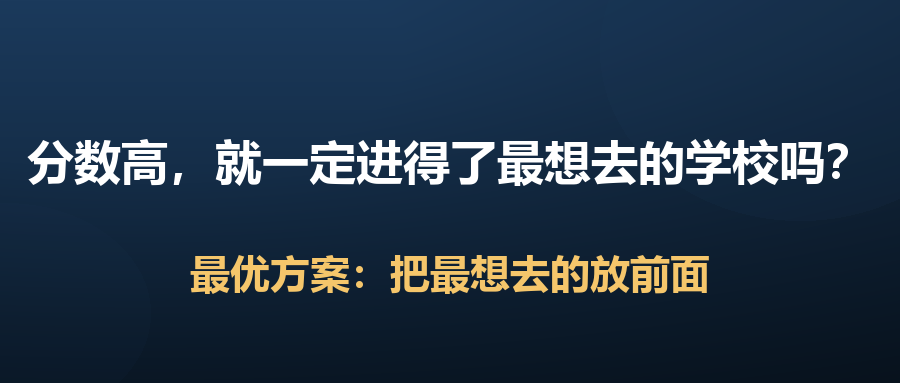
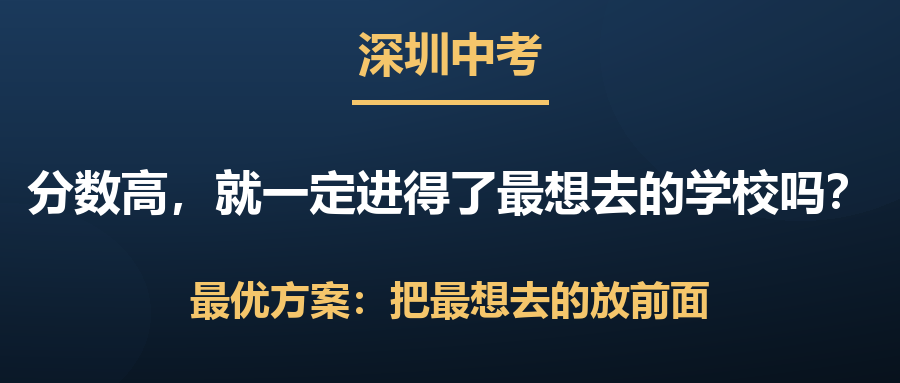
docs: P1-1 主线封面「一句话」三尺寸 + 顶部深圳中考地域标识
主线封面定稿 C（一句话触发点）：考得好≠填得好？/搞懂规则，本身就是优势/30分钟建立全景地图
- 顶部加「深圳中考」金字+同宽下划线（字号≈主问句，手机可读；多城可换东莞/广州复用）
- 尺寸：公众号900×383 / 头条1200×900 / 小红书1080×1440(视频+图文)
- 生成脚本 _build_v3_mainline_cover.py（P1-1 根）

子任务 04批次/05时间线/06排队 公众号封面补「深圳中考」顶部标识（同规格）
- 覆盖 630/ACD（已含深圳字样）之外三张无地域封面

清理被取代旧稿：公众号主线旧首图×3(精简/极简/化繁极简)、今日头条封面1

diff --git a/docs/03-内容创作-深圳中考志愿填报/P1-政策解码器/P1-1-游戏规则全景/_build_v3_mainline_cover.py b/docs/03-内容创作-深圳中考志愿填报/P1-政策解码器/P1-1-游戏规则全景/_build_v3_mainline_cover.py
@@ -1,0 +1,66 @@
+# -*- coding: utf-8 -*-
+"""P1-1 主线封面 · 一句话触发点（C 定稿）+ 顶部地域标识 三尺寸——待目检，不覆盖原图
+顶部小字「深圳中考」（可换东莞/广州复用）；文案：考得好≠填得好？／搞懂规则本身就是优势／30分钟建立全景地图
+"""
+from PIL import Image, ImageDraw, ImageFont
+import numpy as np, os
+FB = "C:/Windows/Fonts/msyhbd.ttc"; FR = "C:/Windows/Fonts/msyh.ttc"
+TOP = (27, 58, 92); BOT = (13, 30, 48)
+WHITE = (255, 255, 255); GOLD = (245, 198, 107); LIGHT = (157, 184, 212); SUB = (201, 217, 232)
+ROOT = os.path.dirname(os.path.abspath(__file__)) + "/"
+
+
+def base(w, h):
+    T = np.array(TOP, float); B = np.array(BOT, float)
+    t = np.linspace(0, 1, h)[:, None, None]
+    a = T[None, None, :] * (1 - t) + B[None, None, :] * t
+    a = np.repeat(a, w, axis=1)
+    y, x = np.mgrid[0:h, 0:w]
+    glow = np.exp(-(((x - w * 0.5) / (w * 0.3)) ** 2 + ((y - h * 0.2) / (h * 0.42)) ** 2))
+    a = a + np.array((180, 205, 235), float)[None, None, :] * (glow * 0.10)[..., None]
+    im = Image.fromarray(np.clip(a, 0, 255).astype(np.uint8), "RGB")
+    ov = Image.new("RGBA", (w, h), (0, 0, 0, 0)); od = ImageDraw.Draw(ov)
+    od.ellipse([w - 300, -140, w + 120, 260], fill=TOP + (26,))
+    od.ellipse([-160, h - 220, 170, h + 20], fill=TOP + (16,))
+    im.paste(ov, (0, 0), ov)
+    return im, ImageDraw.Draw(im)
+
+
+def put(d, text, xy, fnt, fill, maxw, w, h, name=""):
+    f = fnt
+    while maxw and f.size > 12:
+        bb = d.textbbox((0, 0), text, font=f, anchor="mm")
+        if bb[2] - bb[0] <= maxw + 1:
+            break
+        f = ImageFont.truetype(FB if f.path.endswith("msyhbd.ttc") else FR, f.size - 1)
+    bb = d.textbbox((0, 0), text, font=f, anchor="mm")
+    x0, y0 = bb[0] + xy[0], bb[1] + xy[1]
+    x1, y1 = bb[2] + xy[0], bb[3] + xy[1]
+    if not (x0 >= -1 and x1 <= w + 1 and y0 >= -1 and y1 <= h + 1):
+        print(f"[溢出] {name}: '{text}' 字{f.size}")
+    d.text(xy, text, font=f, fill=fill, anchor="mm")
+
+
+def cover(w, h, cx, ys, fs, out):
+    im, d = base(w, h)
+    k_y, q_y, p_y, t_y = ys
+    k_f, q_f, p_f, t_f = fs
+    put(d, "深圳中考", (cx, k_y), ImageFont.truetype(FB, k_f), GOLD, w - 60, w, h, "kicker")
+    kw = d.textlength("深圳中考", font=ImageFont.truetype(FB, k_f))
+    d.line([(cx - kw / 2 - 6, k_y + int(k_f * 1.08)), (cx + kw / 2 + 6, k_y + int(k_f * 1.08))],
+           fill=GOLD, width=max(3, k_f // 10))
+    put(d, "考得好 ≠ 填得好？", (cx, q_y), ImageFont.truetype(FB, q_f), WHITE, w - 60, w, h, "q")
+    put(d, "搞懂规则，本身就是优势", (cx, p_y), ImageFont.truetype(FB, p_f), GOLD, w - 60, w, h, "p")
+    put(d, "30 分钟 · 建立你的全景地图", (cx, t_y), ImageFont.truetype(FB, t_f), SUB, w - 60, w, h, "t")
+    im.save(out)
+    print("saved", out.split("/")[-1])
+
+
+cover(900, 383, 450, (52, 176, 252, 336), (48, 54, 60, 22),
+      ROOT + "01.公众号/01.主线/P1-1-主线-公众号-首图-一句话-900x383.png")
+cover(1200, 900, 600, (160, 440, 630, 800), (76, 90, 100, 40),
+      ROOT + "02.今日头条/P1-1-主线-头条-封面-一句话-1200x900.png")
+for sub in ["01.视频", "02.图文"]:
+    cover(1080, 1440, 540, (360, 700, 950, 1170), (88, 100, 112, 50),
+          ROOT + f"04.小红书/{sub}/P1-1-主线-小红书-首图-一句话-1080x1440.png")
+print("完成")

diff --git a/docs/03-内容创作-深圳中考志愿填报/P1-政策解码器/P1-1-游戏规则全景/01.公众号/_build_v3_subtask_covers.py b/docs/03-内容创作-深圳中考志愿填报/P1-政策解码器/P1-1-游戏规则全景/01.公众号/_build_v3_subtask_covers.py
@@ -41,8 +41,11 @@ def put(d, text, xy, fnt, fill, maxw, name=""):
 
 def cover(out, q, p):
     im, d = base(900, 383)
-    put(d, q, (450, 160), ImageFont.truetype(FB, 50), WHITE, 850, "q")
-    put(d, p, (450, 272), ImageFont.truetype(FB, 40), GOLD, 700, "p")
+    put(d, "深圳中考", (450, 52), ImageFont.truetype(FB, 46), GOLD, 850, "kicker")
+    kw = d.textlength("深圳中考", font=ImageFont.truetype(FB, 46))
+    d.line([(450 - kw / 2 - 6, 52 + 50), (450 + kw / 2 + 6, 52 + 50)], fill=GOLD, width=5)
+    put(d, q, (450, 190), ImageFont.truetype(FB, 50), WHITE, 850, "q")
+    put(d, p, (450, 298), ImageFont.truetype(FB, 40), GOLD, 700, "p")
     im.save(out)
     print("saved", out.split("/")[-1])
 
